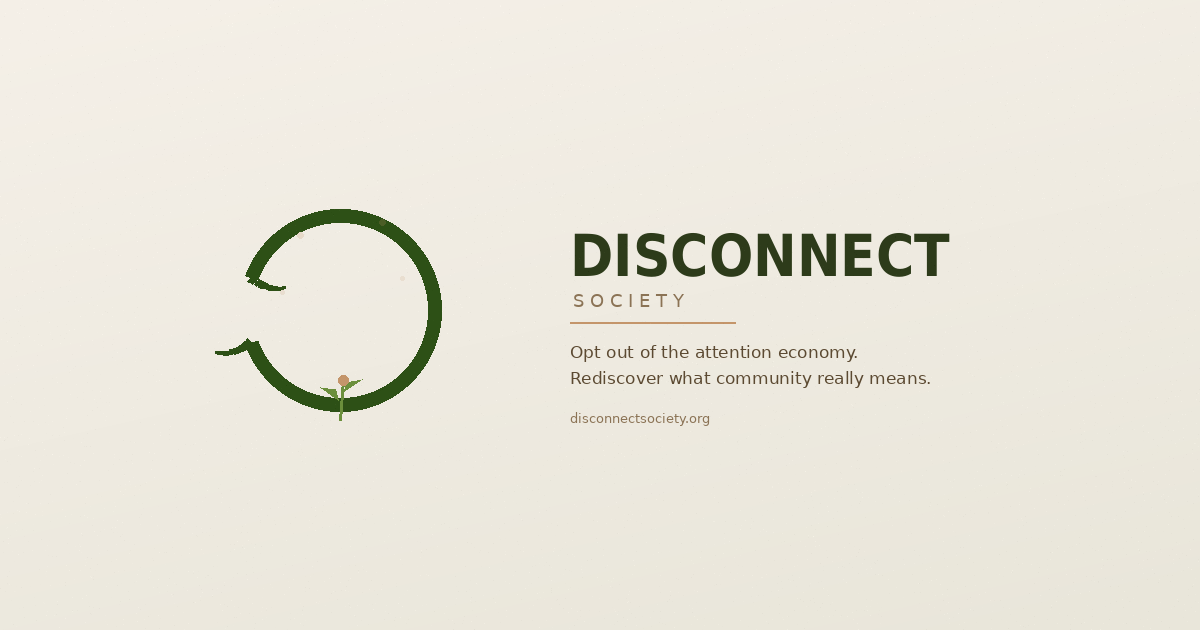
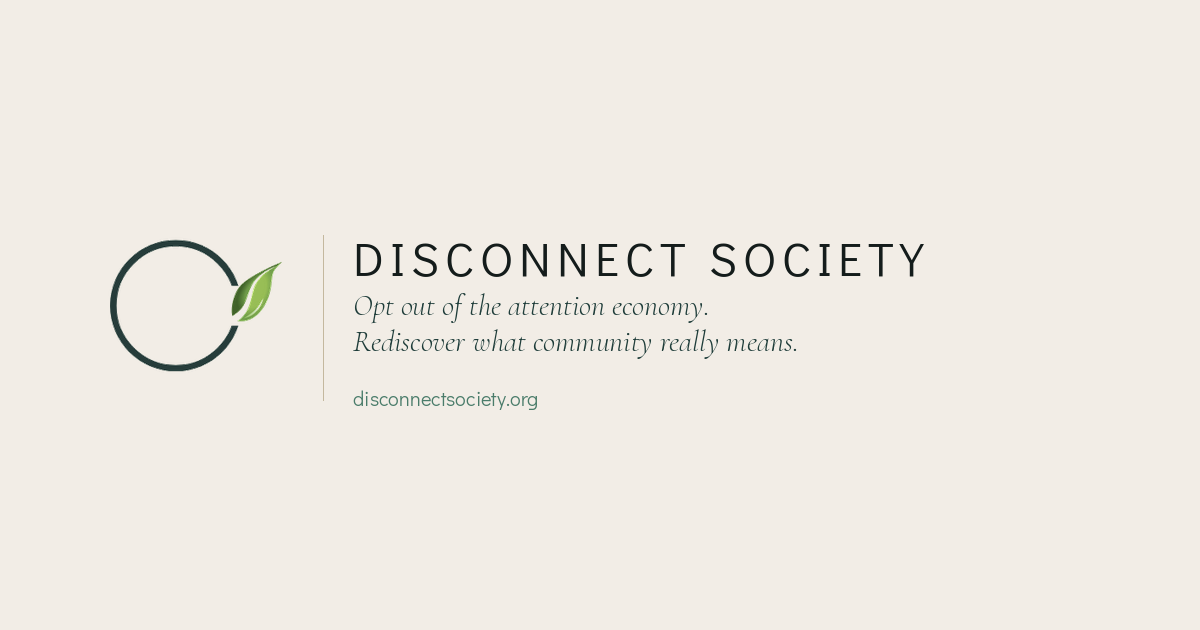
port about page, add redirects, update landing page appearance

Changed region(s): [[0.1233, 0.3317, 0.8017, 0.6635], [0.0925, 0.3921, 0.1233, 0.573], [0.4933, 0.6635, 0.5858, 0.6937]]

diff --git a/app/about/page.tsx b/app/about/page.tsx
@@ -1,0 +1,85 @@
+import type { Metadata } from "next";
+import Link from "next/link";
+import Image from "next/image";
+import founderPhoto from "@/public/founder.jpg";
+
+export const metadata: Metadata = {
+    title: "About | Disconnect Society",
+    description: "Learn about Disconnect Society's mission to help people step back from social media dependence and reconnect with real life.",
+    alternates: { canonical: "/about" },
+};
+
+export default function Page() {
+    return (
+        <div className="flex flex-col items-center w-full max-w-4xl mx-auto px-6 py-20 lg:py-32 font-[family-name:var(--font-space-grotesk)]">
+            <h1 className="font-handjet text-5xl lg:text-7xl font-bold mb-10 w-full">About Disconnect Society</h1>
+
+            <section aria-labelledby="mission" className="w-full mb-12">
+                <h2 id="mission" className="font-bold text-2xl mb-4 text-(--primary-color)">Our mission</h2>
+                <p className="mb-4">
+                    We believe that widespread dependence on algorithm-driven social media is harming our wellbeing and eroding our ability to meaningfully connect with the world around us.
+                </p>
+                <p className="mb-4">
+                    Our aim is simply to <span className="font-bold">help people</span> by reducing that dependency through intentional choice and solidarity.
+                </p>
+                <p>
+                    The pledge at the center of this project is voluntary and self-directed. We hope you&apos;ll join us in working toward a culture where we spend our most valuable resource (our time) in the real world, rather than the digital one.
+                </p>
+            </section>
+
+            <section aria-labelledby="what-this-is" className="w-full mb-12">
+                <h2 id="what-this-is" className="font-bold text-2xl mb-4 text-(--primary-color)">What this is and what it isn&apos;t</h2>
+                <div className="grid grid-cols-1 sm:grid-cols-2 gap-8">
+                    <div>
+                        <h3 className="font-bold mb-2">This is:</h3>
+                        <ul className="list-disc pl-6 space-y-1">
+                            <li>A voluntary commitment</li>
+                            <li>A civic experiment</li>
+                            <li>A cultural statement</li>
+                            <li>A call to live more intentionally</li>
+                        </ul>
+                    </div>
+                    <div>
+                        <h3 className="font-bold mb-2">This is not:</h3>
+                        <ul className="list-disc pl-6 space-y-1">
+                            <li>A business</li>
+                            <li>A social media platform</li>
+                            <li>A moral purity test</li>
+                        </ul>
+                    </div>
+                </div>
+                <p className="mt-4">This is about <span className="italic">helping</span> people, not judging them. We&apos;re all in this boat together.</p>
+            </section>
+
+            <section aria-labelledby="who" className="w-full mb-12">
+                <h2 id="who" className="font-bold text-2xl mb-4 text-(--primary-color)">Who is Disconnect Society?</h2>
+                <div>
+                    <Image
+                        src={founderPhoto}
+                        alt="Photo of the founder"
+                        className="float-left w-40 h-auto rounded-md mr-6 mb-4"
+                    />
+                    <p className="mb-4">
+                        Disconnect Society was founded by one person in Madison, WI. It is not funded by investors. It is not a political organization. It is not affiliated with any technology company or competitor. It is not selling a product.
+                    </p>
+                    <p className="mb-4">
+                        I started this project because I noticed changes in myself that I didn&apos;t like, and I <span className="italic">knew</span> those changes were directly connected to how I spent my time online. I felt more isolated than ever, more anxious, more depressed, and angrier. I was losing hours of my life to content that I wouldn&apos;t remember later that day, finding it harder to focus on one thing at a time, and getting less satisfaction from activities I used to love.
+                    </p>
+                    <p className="mb-4">For several years I listened to the people in my life voice similar concerns, and I finally decided the price I was paying for dopamine on social media was too high. I started deleting accounts one at a time and found I didn&apos;t miss them, and in 2025 I finally deleted my last social media account. <span className="font-bold">I haven&apos;t looked back</span>.</p>
+                    <p>
+                        With every account I deleted, I reclaimed a little bit more of myself. I read more and slept better. I started talking to the people who live and work in my neighborhood. I became more present and intentional. My hope is this project will help other people improve their mental wellbeing, and know they aren&apos;t alone in the pursuit.
+                    </p>
+                </div>
+            </section>
+
+            <section className="w-full mb-8 text-center">
+                <p className="text-lg text-(--secondary-accent) mb-4">
+                    Want to see what Disconnect Society looks like in action? <Link href="https://disconnectmadison.org">Visit the Madison chapter</Link>.
+                </p>
+                <p className="text-lg text-(--secondary-accent)">
+                    If you&apos;ve already stepped away and want to share your story, we&apos;d love to hear it. <a href="mailto:hello@disconnectmadison.org">Send us a message</a>.
+                </p>
+            </section>
+        </div>
+    );
+}

diff --git a/app/page.tsx b/app/page.tsx
@@ -1,54 +1,58 @@
+import Image from "next/image";
+import madisonPreview from "@/public/madison-preview.png";
+
 export default function Home() {
   return (
-    <div className="min-h-screen bg-(--background) text-(--foreground) font-[family-name:var(--font-space-grotesk)]">
+    <div className="max-w-2xl mx-auto px-6 py-20 lg:py-32">
 
-      <nav className="flex items-center px-6 py-4 lg:px-12 lg:py-6 border-b border-(--secondary-accent)">
-        <span className="font-handjet text-2xl text-[#EDEBE6]">Disconnect Society</span>
-      </nav>
+      <h1 className="font-handjet text-5xl lg:text-7xl font-bold mb-6 text-(--foreground)">
+        Disconnect Society
+      </h1>
 
-      <main className="max-w-2xl mx-auto px-6 py-20 lg:py-32">
+      <p className="text-xl lg:text-2xl text-(--secondary-accent) mb-12 leading-relaxed">
+        A grassroots movement helping people step back from algorithm-driven social media and reclaim their attention, their relationships, and their time.
+      </p>
 
-        <h1 className="font-handjet text-5xl lg:text-7xl font-bold mb-6 text-(--foreground)">
-          Disconnect Society
-        </h1>
-
-        <p className="text-xl lg:text-2xl text-(--secondary-accent) mb-12 leading-relaxed">
-          A grassroots movement helping people step back from algorithm-driven social media and reclaim their attention, their relationships, and their time.
+      <section className="mb-12 space-y-4 text-lg leading-relaxed">
+        <p>
+          Disconnect Society is an open framework for local communities who want to push back on the attention economy together. Anyone, anywhere can start a chapter.
         </p>
+        <p>
+          The first chapter launched in Madison, WI in 2026. If you live there (or just want to see what this looks like in practice), visit the Madison site to learn about the research, take the quiz, or take a pledge.
+        </p>
+      </section>
 
-        <section className="mb-12 space-y-4 text-lg leading-relaxed">
-          <p>
-            Disconnect Society is an open framework for local communities who want to push back on the attention economy together. Anyone, anywhere can start a chapter.
-          </p>
-          <p>
-            The first chapter launched in Madison, WI in 2025. If you live there (or just want to see what this looks like in practice), visit the Madison site to learn about the research, take the quiz, or take a pledge.
-          </p>
-        </section>
+      <a
+        href="https://disconnectmadison.org"
+        className="block mb-16 rounded-md overflow-hidden border border-(--secondary-accent) hover:opacity-90 transition-opacity"
+        style={{ textDecoration: "none", color: "inherit" }}
+      >
+        <Image
+          src={madisonPreview}
+          alt="Disconnect Madison"
+          className="w-full h-auto"
+          priority
+        />
+        <div className="flex items-center justify-between px-5 py-4">
+          <div>
+            <p className="font-handjet text-xl font-bold">Disconnect Madison</p>
+            <p className="text-sm text-(--secondary-accent)">disconnectmadison.org</p>
+          </div>
+          <span className="font-handjet text-lg text-(--primary-color)">Visit →</span>
+        </div>
+      </a>
 
-        <a
-          href="https://disconnectmadison.org"
-          className="inline-block bg-(--primary-color) text-white font-handjet text-xl px-8 py-4 rounded-sm hover:opacity-90 transition-opacity no-underline mb-16"
-        >
-          Visit the Madison chapter →
-        </a>
-
-        <section className="border-t border-(--secondary-accent) pt-10 mt-4">
-          <h2 className="font-handjet text-2xl font-bold mb-3 text-(--primary-color)">
-            Interested in starting a chapter?
-          </h2>
-          <p className="text-(--secondary-accent) leading-relaxed">
-            If you want to bring this to your city, we'd love to hear from you. Reach out at{" "}
-            <a href="mailto:hello@disconnectmadison.org" className="text-(--primary-accent) underline hover:text-(--primary-accent-hover)">
-              hello@disconnectmadison.org
-            </a>.
-          </p>
-        </section>
-
-      </main>
-
-      <footer className="border-t border-(--secondary-accent) px-6 py-8 lg:px-12 text-sm text-(--secondary-accent) text-center">
-        <p>Disconnect Society — disconnectsociety.org</p>
-      </footer>
+      <section className="border-t border-(--secondary-accent) pt-10">
+        <h2 className="font-handjet text-2xl font-bold mb-3 text-(--primary-color)">
+          Interested in starting a chapter?
+        </h2>
+        <p className="text-(--secondary-accent) leading-relaxed">
+          If you want to bring this to your city, we&apos;d love to hear from you. Reach out at{" "}
+          <a href="mailto:hello@disconnectmadison.org">
+            zeke@disconnectmadison.org
+          </a>.
+        </p>
+      </section>
 
     </div>
   );

diff --git a/app/layout.tsx b/app/layout.tsx
@@ -1,6 +1,7 @@
 import type { Metadata } from "next";
 import { Geist, Geist_Mono, Handjet, Space_Grotesk } from "next/font/google";
 import "./globals.css";
+import Nav from "@/app/components/Nav";
 
 const geistSans = Geist({
   variable: "--font-geist-sans",
@@ -51,9 +52,15 @@ export default function RootLayout({
   return (
     <html lang="en">
       <body
-        className={`${geistSans.variable} ${geistMono.variable} ${handjet.variable} ${spaceGrotesk.variable} antialiased`}
+        className={`${geistSans.variable} ${geistMono.variable} ${handjet.variable} ${spaceGrotesk.variable} antialiased min-h-screen bg-(--background) text-(--foreground) font-[family-name:var(--font-space-grotesk)]`}
       >
-        {children}
+        <Nav />
+        <main>
+          {children}
+        </main>
+        <footer className="border-t border-(--secondary-accent) px-6 py-8 lg:px-12 text-sm text-(--secondary-accent) text-center">
+          <p>Disconnect Society — disconnectsociety.org</p>
+        </footer>
       </body>
     </html>
   );

diff --git a/app/not-found.tsx b/app/not-found.tsx
@@ -1,0 +1,19 @@
+import Link from "next/link";
+
+export default function NotFound() {
+    return (
+        <div className="flex flex-col items-center w-full max-w-4xl mx-auto px-6 py-20 lg:py-32 font-[family-name:var(--font-space-grotesk)]">
+            <section className="w-full mb-16">
+                <h1 className="font-handjet text-5xl lg:text-7xl font-bold mb-4">
+                    Page not found
+                </h1>
+                <p className="text-lg text-(--secondary-accent) mb-8">
+                    The page you&apos;re looking for doesn&apos;t exist or has moved.
+                </p>
+                <Link href="/">
+                    Go back home
+                </Link>
+            </section>
+        </div>
+    );
+}

diff --git a/app/components/Nav.tsx b/app/components/Nav.tsx
@@ -1,0 +1,14 @@
+import Link from "next/link";
+
+export default function Nav() {
+    return (
+        <nav className="flex items-center justify-between px-6 py-4 lg:px-12 lg:py-6 border-b border-(--secondary-accent)">
+            <Link href="/" className="font-handjet text-2xl text-[#EDEBE6]" style={{ textDecoration: "none", color: "#EDEBE6" }}>
+                Disconnect Society
+            </Link>
+            <ul className="flex gap-8 font-handjet text-lg text-[#EDEBE6]">
+                <li><Link href="/about" style={{ textDecoration: "none", color: "#EDEBE6" }} className="hover:opacity-70 transition-opacity">About</Link></li>
+            </ul>
+        </nav>
+    );
+}

diff --git a/middleware.ts b/middleware.ts
@@ -1,0 +1,18 @@
+import { NextResponse } from 'next/server';
+import type { NextRequest } from 'next/server';
+
+const REDIRECTS: Record<string, string> = {
+    '/pledge': 'https://disconnectmadison.org/pledge',
+    '/quiz':   'https://disconnectmadison.org/quiz',
+};
+
+export function middleware(request: NextRequest) {
+    const destination = REDIRECTS[request.nextUrl.pathname];
+    if (destination) {
+        return NextResponse.redirect(destination, { status: 301 });
+    }
+}
+
+export const config = {
+    matcher: ['/pledge', '/quiz'],
+};
